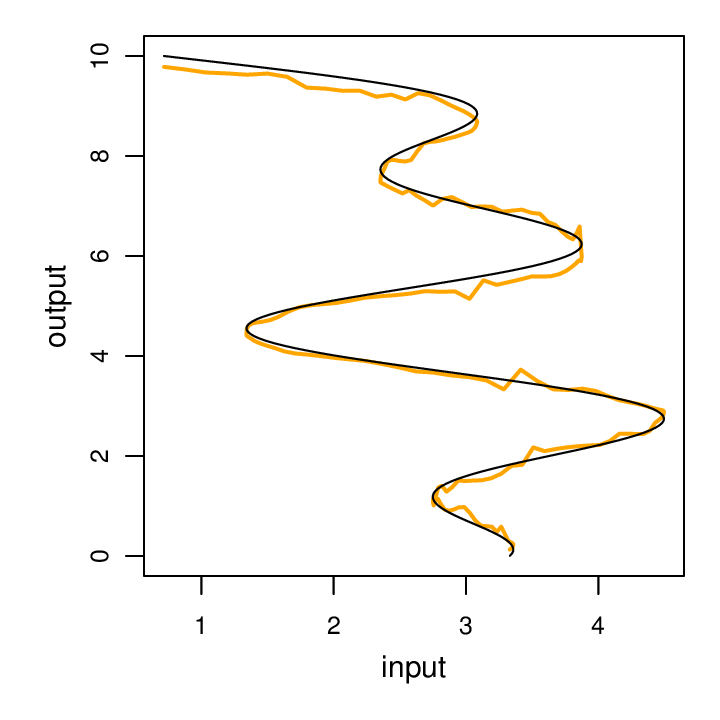
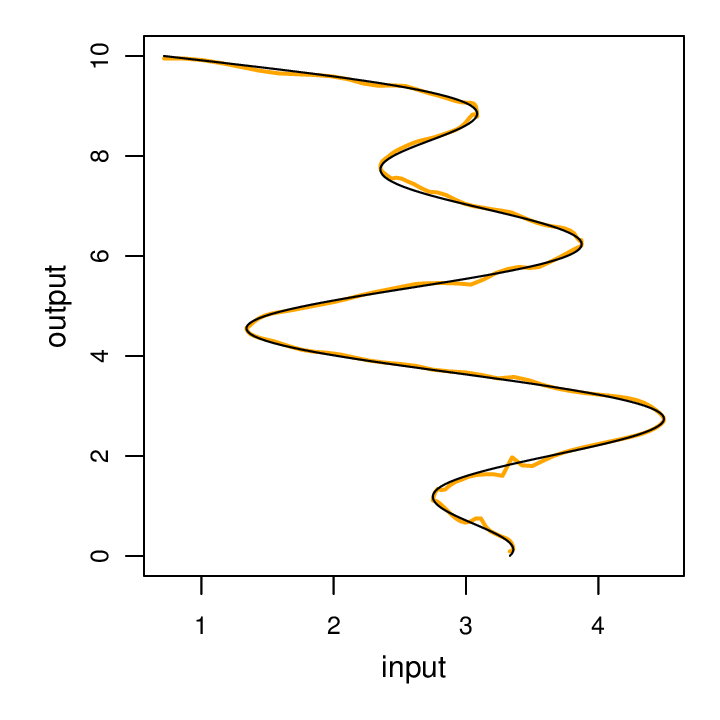
update lstm to reflect solving bug

diff --git a/03-lstm.md b/03-lstm.md
@@ -234,10 +234,9 @@ This first plot is using the same fixed-width data set as our RNN example and us
 
 This LSTM converges nearly 2x as fast as the RNN despite all the additional parameters.
 
-However, after I added my kluge for variable length sequences ([in this script](https://github.com/kbullaughey/lstm-play/blob/master/toys/lstm/model-1_layer-variable.lua)), the convergence was 10x slower and it fit less well:
+After adding our kluge for variable length sequences ([in this script](https://github.com/kbullaughey/lstm-play/blob/master/toys/lstm/model-1_layer-variable.lua)), we get similar results:
 
 <div class="standard-image">
   <img src="{{"/assets/lstm/model-1_layer-variable-1.png" | prepend: site.baseurl }}">
 </div>
 
-I haven't managed to find a bug yet, but this type of behavior (fitting less well and converging slower) is symptomatic of many mistakes that can occur when implementing neural networks. It still mostly works, but not particularly well. This makes it a challenge to know when there are bugs. 
